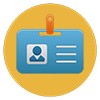
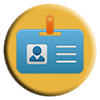
Refinado botões de layout

Changed region(s): [[0.03, 0.03, 0.99, 0.99]]

diff --git a/SystemSalao/src/Visao/FramePrincipal.java b/SystemSalao/src/Visao/FramePrincipal.java
@@ -13,9 +13,11 @@ import java.awt.image.BufferedImage;
 import java.io.File;
 import java.io.IOException;
 import javax.imageio.ImageIO;
+import javax.swing.BorderFactory;
 import javax.swing.ImageIcon;
 import javax.swing.JLabel;
 import javax.swing.JPanel;
+import javax.swing.border.Border;
 
 /**
  *
@@ -65,6 +67,8 @@ public class FramePrincipal extends javax.swing.JFrame {
         setDefaultCloseOperation(javax.swing.WindowConstants.EXIT_ON_CLOSE);
         setTitle("Salãozão");
 
+        jPanelPrinc.setOpaque(false);
+
         javax.swing.GroupLayout jPanelPrincLayout = new javax.swing.GroupLayout(jPanelPrinc);
         jPanelPrinc.setLayout(jPanelPrincLayout);
         jPanelPrincLayout.setHorizontalGroup(
@@ -76,45 +80,81 @@ public class FramePrincipal extends javax.swing.JFrame {
             .addGap(0, 0, Short.MAX_VALUE)
         );
 
-        btnCli.setIcon(new javax.swing.ImageIcon(getClass().getResource("/Visao/imgs/cliente2.png"))); // NOI18N
+        btnCli.setIcon(new javax.swing.ImageIcon(getClass().getResource("/Visao/imgs/cliente icon.png"))); // NOI18N
         btnCli.addMouseListener(new java.awt.event.MouseAdapter() {
             public void mouseClicked(java.awt.event.MouseEvent evt) {
                 btnCliMouseClicked(evt);
             }
+            public void mouseEntered(java.awt.event.MouseEvent evt) {
+                btnCliMouseEntered(evt);
+            }
+            public void mouseExited(java.awt.event.MouseEvent evt) {
+                btnCliMouseExited(evt);
+            }
         });
 
-        btnFunc.setIcon(new javax.swing.ImageIcon(getClass().getResource("/Visao/imgs/func icon2.png"))); // NOI18N
+        btnFunc.setIcon(new javax.swing.ImageIcon(getClass().getResource("/Visao/imgs/func icon.png"))); // NOI18N
         btnFunc.addMouseListener(new java.awt.event.MouseAdapter() {
             public void mouseClicked(java.awt.event.MouseEvent evt) {
                 btnFuncMouseClicked(evt);
             }
+            public void mouseEntered(java.awt.event.MouseEvent evt) {
+                btnFuncMouseEntered(evt);
+            }
+            public void mouseExited(java.awt.event.MouseEvent evt) {
+                btnFuncMouseExited(evt);
+            }
         });
 
-        btnAgenda.setIcon(new javax.swing.ImageIcon(getClass().getResource("/Visao/imgs/agenda icon2.png"))); // NOI18N
+        btnAgenda.setIcon(new javax.swing.ImageIcon(getClass().getResource("/Visao/imgs/agenda icon.png"))); // NOI18N
         btnAgenda.addMouseListener(new java.awt.event.MouseAdapter() {
             public void mouseClicked(java.awt.event.MouseEvent evt) {
                 btnAgendaMouseClicked(evt);
             }
+            public void mouseEntered(java.awt.event.MouseEvent evt) {
+                btnAgendaMouseEntered(evt);
+            }
+            public void mouseExited(java.awt.event.MouseEvent evt) {
+                btnAgendaMouseExited(evt);
+            }
         });
 
-        btnRelat.setIcon(new javax.swing.ImageIcon(getClass().getResource("/Visao/imgs/relatorio icon2.png"))); // NOI18N
+        btnRelat.setIcon(new javax.swing.ImageIcon(getClass().getResource("/Visao/imgs/relatorio icon.png"))); // NOI18N
         btnRelat.addMouseListener(new java.awt.event.MouseAdapter() {
             public void mouseClicked(java.awt.event.MouseEvent evt) {
                 btnRelatMouseClicked(evt);
             }
+            public void mouseEntered(java.awt.event.MouseEvent evt) {
+                btnRelatMouseEntered(evt);
+            }
+            public void mouseExited(java.awt.event.MouseEvent evt) {
+                btnRelatMouseExited(evt);
+            }
         });
 
-        btnServ.setIcon(new javax.swing.ImageIcon(getClass().getResource("/Visao/imgs/servicos icon2.png"))); // NOI18N
+        btnServ.setIcon(new javax.swing.ImageIcon(getClass().getResource("/Visao/imgs/servicos icon.png"))); // NOI18N
         btnServ.addMouseListener(new java.awt.event.MouseAdapter() {
             public void mouseClicked(java.awt.event.MouseEvent evt) {
                 btnServMouseClicked(evt);
             }
+            public void mouseEntered(java.awt.event.MouseEvent evt) {
+                btnServMouseEntered(evt);
+            }
+            public void mouseExited(java.awt.event.MouseEvent evt) {
+                btnServMouseExited(evt);
+            }
         });
 
-        btnAtend.setIcon(new javax.swing.ImageIcon(getClass().getResource("/Visao/imgs/atend icon2.png"))); // NOI18N
+        btnAtend.setIcon(new javax.swing.ImageIcon(getClass().getResource("/Visao/imgs/atend icon.png"))); // NOI18N
         btnAtend.addMouseListener(new java.awt.event.MouseAdapter() {
             public void mouseClicked(java.awt.event.MouseEvent evt) {
                 btnAtendMouseClicked(evt);
+            }
+            public void mouseEntered(java.awt.event.MouseEvent evt) {
+                btnAtendMouseEntered(evt);
+            }
+            public void mouseExited(java.awt.event.MouseEvent evt) {
+                btnAtendMouseExited(evt);
             }
         });
 
@@ -325,6 +365,54 @@ public class FramePrincipal extends javax.swing.JFrame {
         fa1.setLocationRelativeTo(null);
         fa1.setVisible(true);
     }//GEN-LAST:event_btnAtendMouseClicked
+
+    private void btnCliMouseEntered(java.awt.event.MouseEvent evt) {//GEN-FIRST:event_btnCliMouseEntered
+        btnCli.setIcon(new javax.swing.ImageIcon(getClass().getResource("/Visao/imgs/cliente2.png")));
+    }//GEN-LAST:event_btnCliMouseEntered
+
+    private void btnCliMouseExited(java.awt.event.MouseEvent evt) {//GEN-FIRST:event_btnCliMouseExited
+        btnCli.setIcon(new javax.swing.ImageIcon(getClass().getResource("/Visao/imgs/cliente icon.png")));
+    }//GEN-LAST:event_btnCliMouseExited
+
+    private void btnFuncMouseEntered(java.awt.event.MouseEvent evt) {//GEN-FIRST:event_btnFuncMouseEntered
+        btnFunc.setIcon(new javax.swing.ImageIcon(getClass().getResource("/Visao/imgs/func icon2.png")));
+    }//GEN-LAST:event_btnFuncMouseEntered
+
+    private void btnFuncMouseExited(java.awt.event.MouseEvent evt) {//GEN-FIRST:event_btnFuncMouseExited
+        btnFunc.setIcon(new javax.swing.ImageIcon(getClass().getResource("/Visao/imgs/func icon.png")));
+    }//GEN-LAST:event_btnFuncMouseExited
+
+    private void btnAgendaMouseEntered(java.awt.event.MouseEvent evt) {//GEN-FIRST:event_btnAgendaMouseEntered
+        btnAgenda.setIcon(new javax.swing.ImageIcon(getClass().getResource("/Visao/imgs/agenda icon2.png")));
+    }//GEN-LAST:event_btnAgendaMouseEntered
+
+    private void btnAgendaMouseExited(java.awt.event.MouseEvent evt) {//GEN-FIRST:event_btnAgendaMouseExited
+        btnAgenda.setIcon(new javax.swing.ImageIcon(getClass().getResource("/Visao/imgs/agenda icon.png")));
+    }//GEN-LAST:event_btnAgendaMouseExited
+
+    private void btnRelatMouseEntered(java.awt.event.MouseEvent evt) {//GEN-FIRST:event_btnRelatMouseEntered
+        btnRelat.setIcon(new javax.swing.ImageIcon(getClass().getResource("/Visao/imgs/relatorio icon2.png")));
+    }//GEN-LAST:event_btnRelatMouseEntered
+
+    private void btnRelatMouseExited(java.awt.event.MouseEvent evt) {//GEN-FIRST:event_btnRelatMouseExited
+        btnRelat.setIcon(new javax.swing.ImageIcon(getClass().getResource("/Visao/imgs/relatorio icon.png")));
+    }//GEN-LAST:event_btnRelatMouseExited
+
+    private void btnServMouseEntered(java.awt.event.MouseEvent evt) {//GEN-FIRST:event_btnServMouseEntered
+        btnServ.setIcon(new javax.swing.ImageIcon(getClass().getResource("/Visao/imgs/servicos icon2.png")));
+    }//GEN-LAST:event_btnServMouseEntered
+
+    private void btnServMouseExited(java.awt.event.MouseEvent evt) {//GEN-FIRST:event_btnServMouseExited
+        btnServ.setIcon(new javax.swing.ImageIcon(getClass().getResource("/Visao/imgs/servicos icon.png")));
+    }//GEN-LAST:event_btnServMouseExited
+
+    private void btnAtendMouseEntered(java.awt.event.MouseEvent evt) {//GEN-FIRST:event_btnAtendMouseEntered
+        btnAtend.setIcon(new javax.swing.ImageIcon(getClass().getResource("/Visao/imgs/atend icon2.png")));
+    }//GEN-LAST:event_btnAtendMouseEntered
+
+    private void btnAtendMouseExited(java.awt.event.MouseEvent evt) {//GEN-FIRST:event_btnAtendMouseExited
+        btnAtend.setIcon(new javax.swing.ImageIcon(getClass().getResource("/Visao/imgs/atend icon.png")));
+    }//GEN-LAST:event_btnAtendMouseExited
 
     /**
      * @param args the command line arguments
